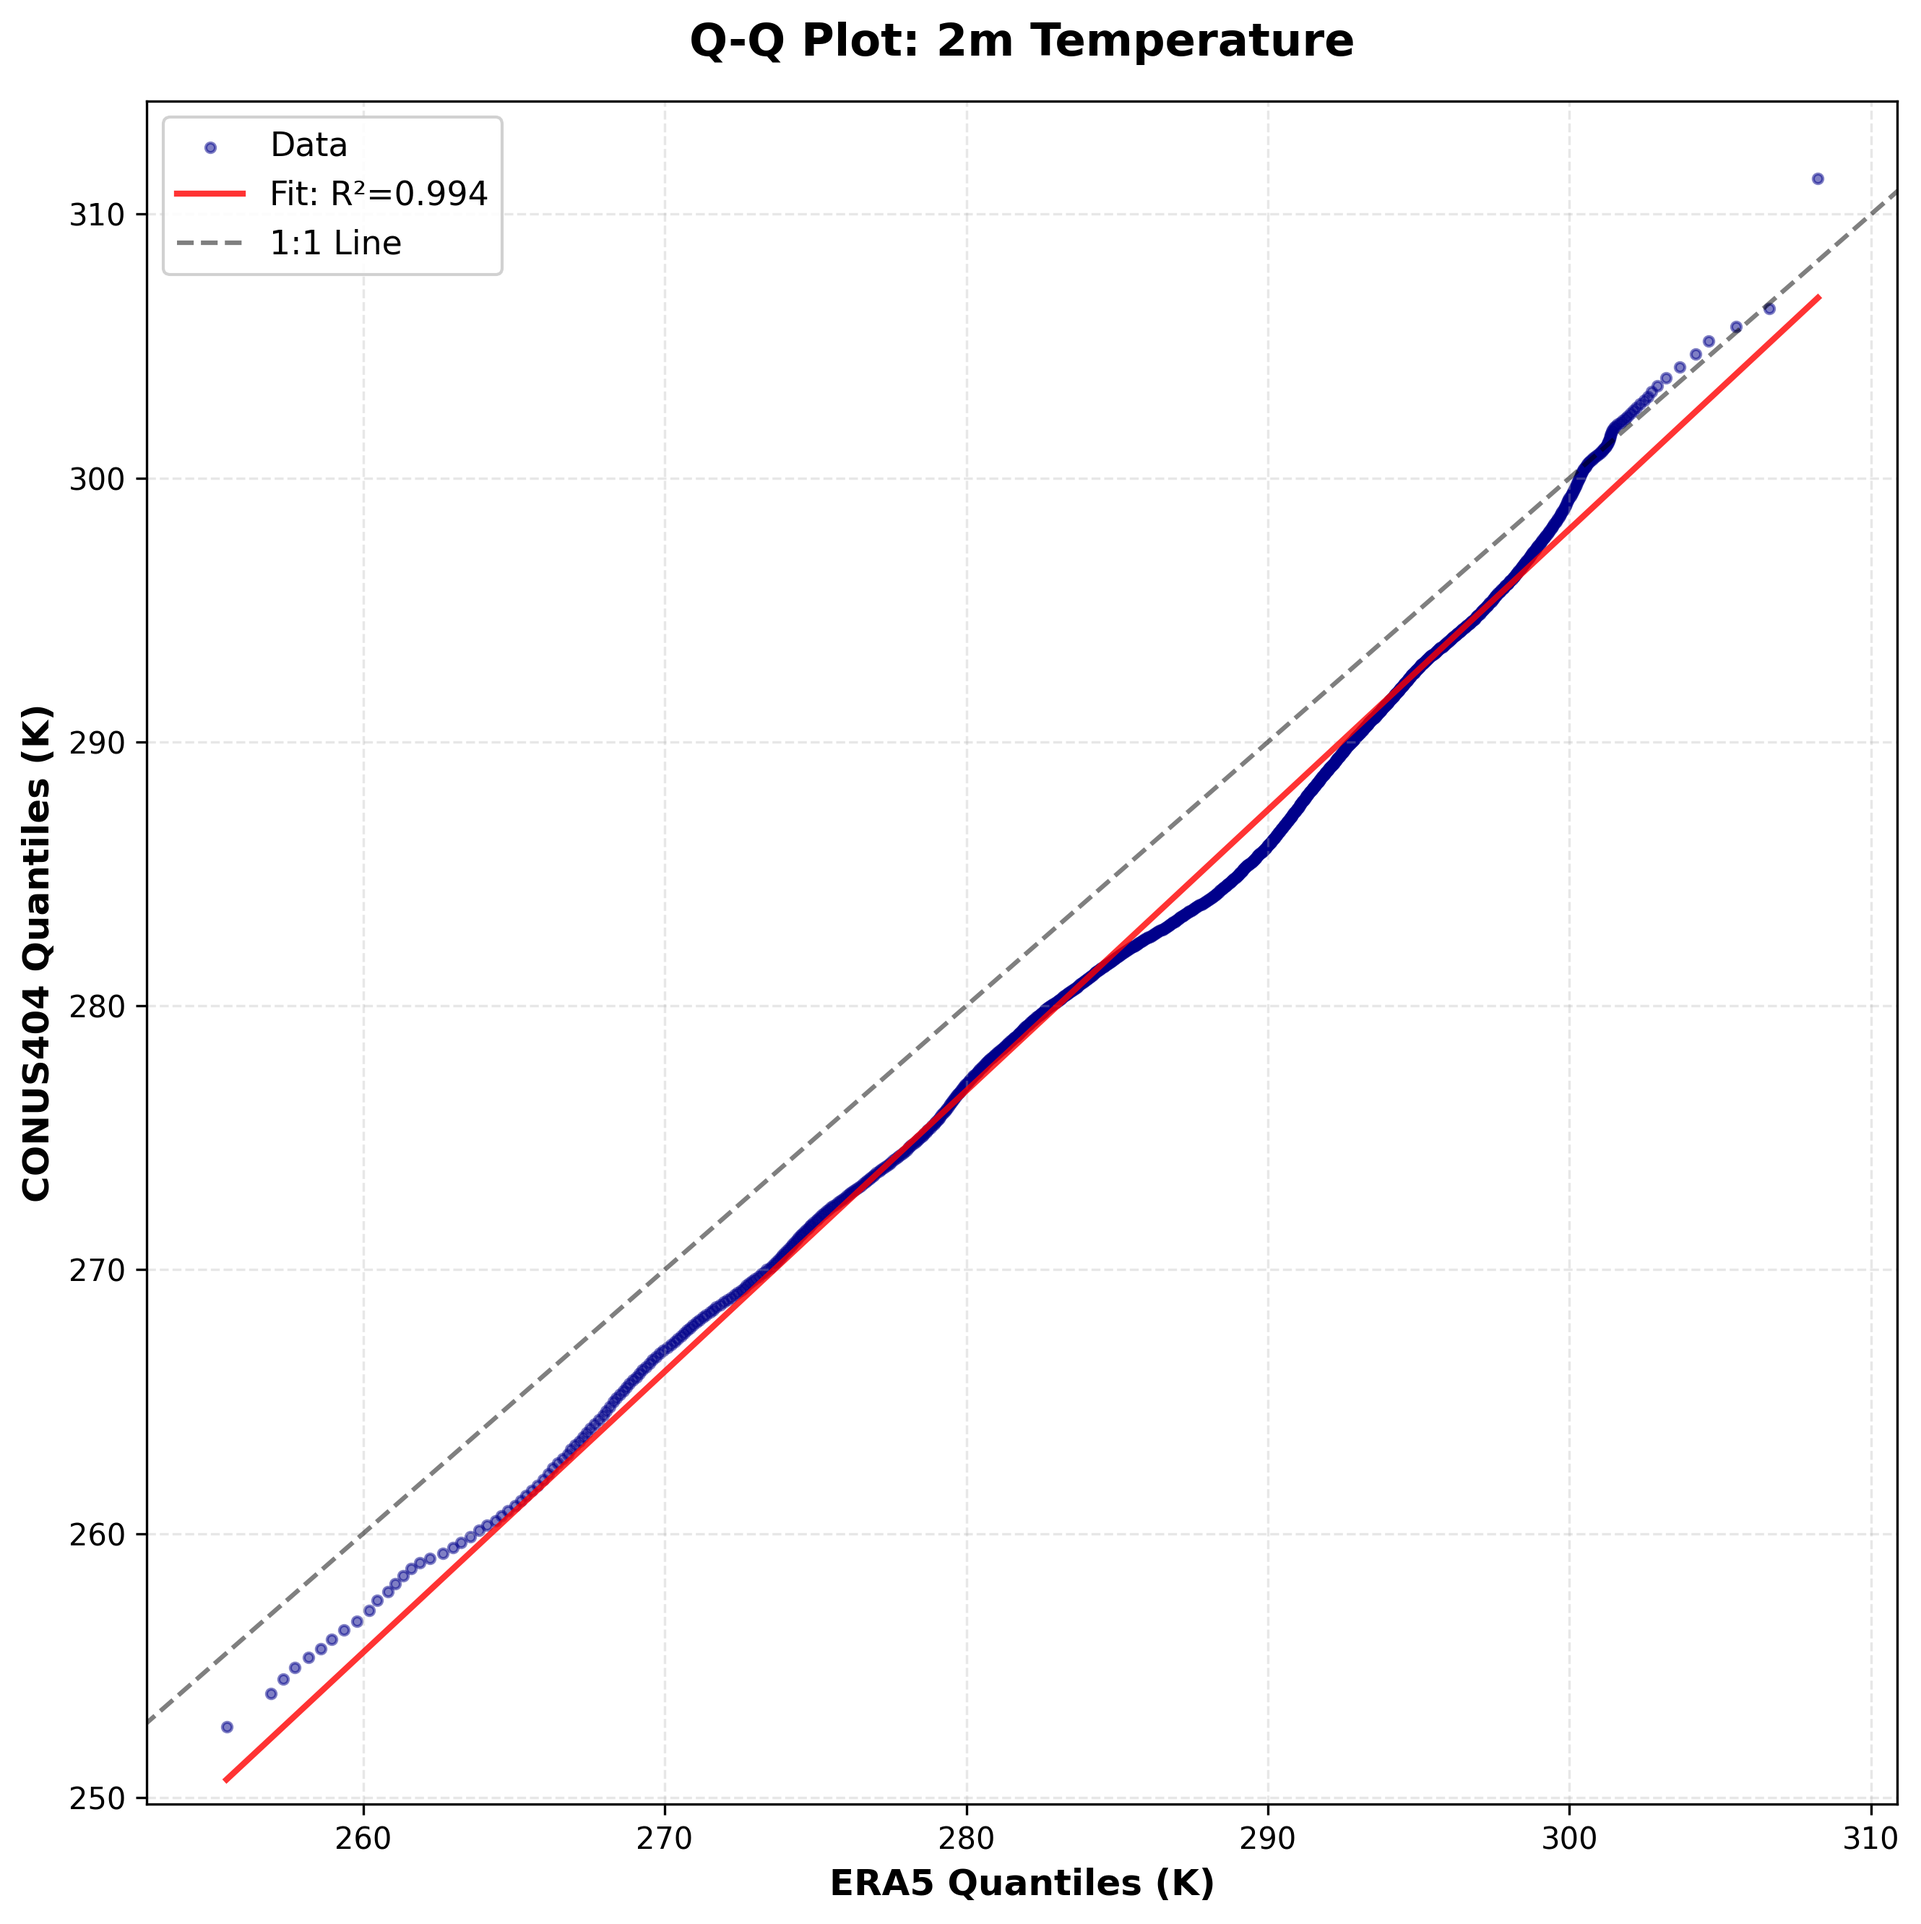
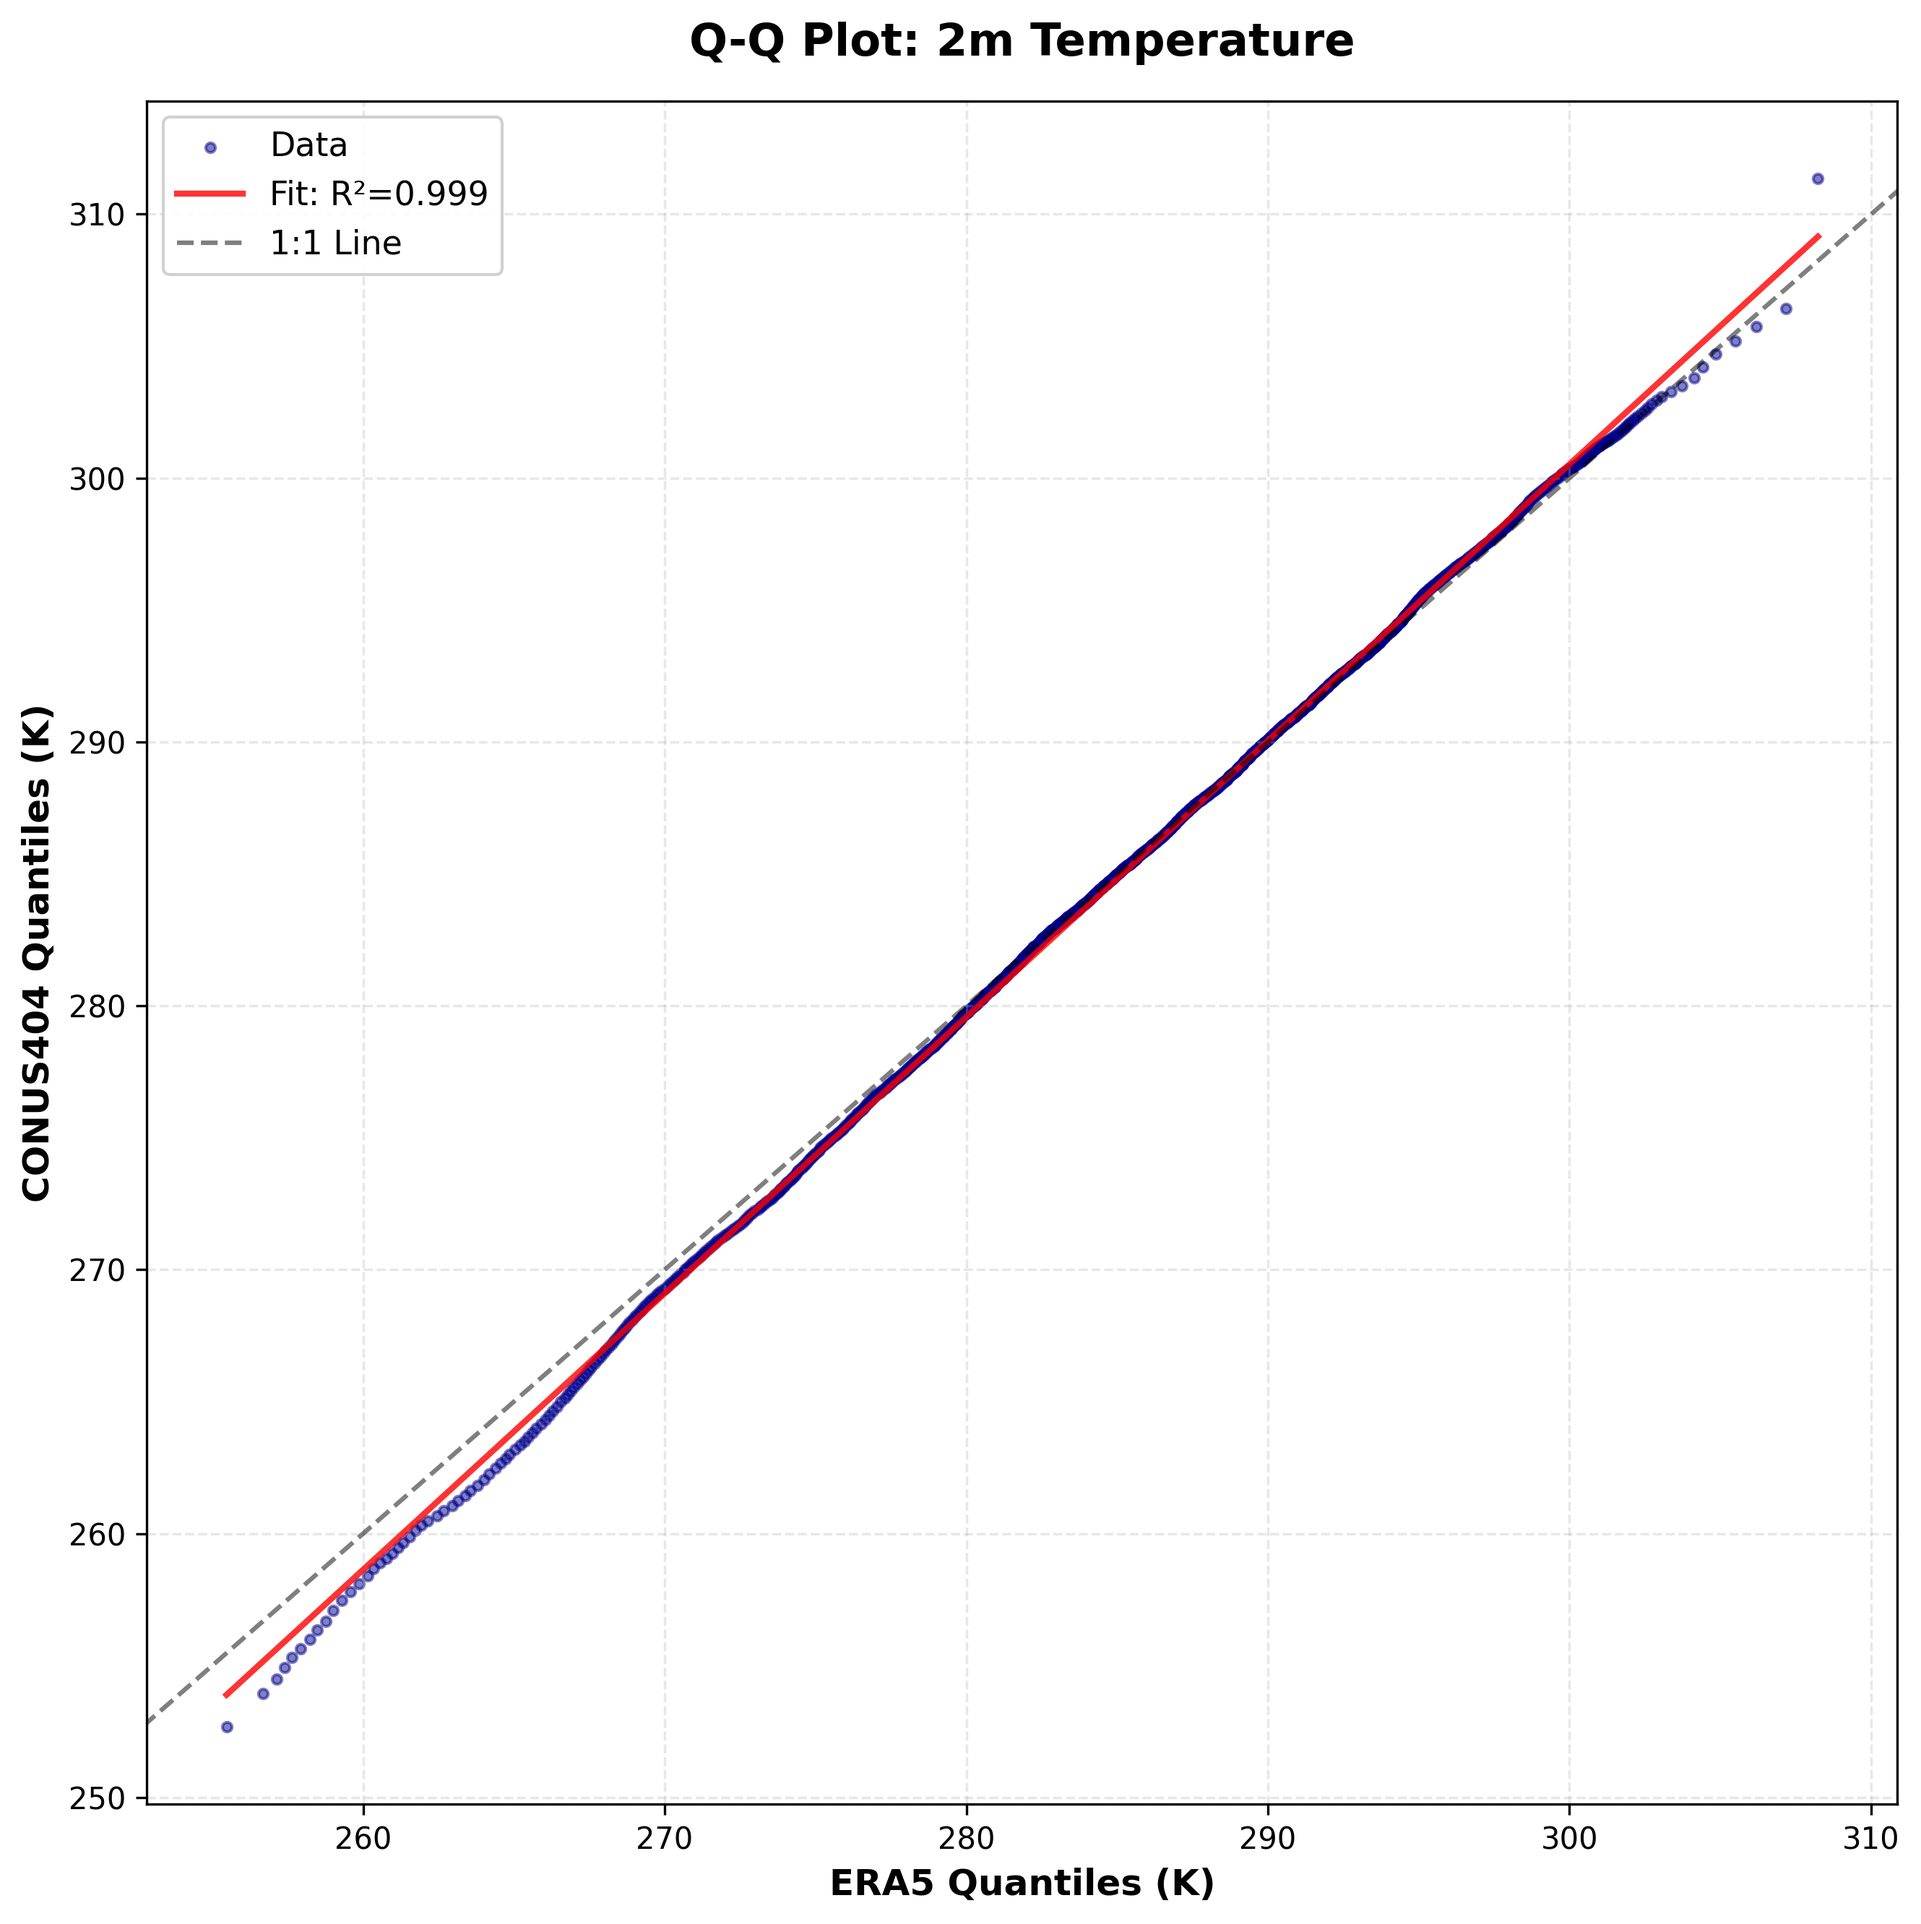
Apply ERA5 lsm mask to ERA5 seasonal data for symmetric QQ/boxplot comparison
Both ERA5 and CONUS404 distributions are now land-only (Great Lakes + ocean
excluded), making QQ plots and seasonal boxplots an apples-to-apples comparison.
Regenerated 2015 t2m plots (qq, heatmap, seasonal boxplots, yearly timeseries).

Changed region(s): [[0.1249, 0.1247, 0.9364, 0.9039]]

diff --git a/analysis_script_ocean_masked.py b/analysis_script_ocean_masked.py
@@ -238,6 +238,9 @@ def load_seasonal_data(era_ds, conus_ds, era_var, conus_var):
     era_seasonal_data = {}
     conus_seasonal_data = {}
 
+    # Get ERA5 land mask once (static field — same for all seasons)
+    era_land_bool, _, _ = get_era5_land_mask(era_ds, LAT_MAX, LAT_MIN, LON_MIN, LON_MAX)
+
     for season_name, months in SEASONS.items():
         # era5 seasonal mean
         era_season = era_ds[era_var].sel(
@@ -247,6 +250,11 @@ def load_seasonal_data(era_ds, conus_ds, era_var, conus_var):
         era_season_mean = era_season.mean(dim=era_time_dims)
         era_season_mean = trim_to_us(era_season_mean, LAT_MIN, LAT_MAX, LON_MIN, LON_MAX)
         era_season_mean = convert_units(era_season_mean, era_var)
+        if era_land_bool is not None:
+            if era_land_bool.shape == era_season_mean.shape:
+                era_season_mean = era_season_mean.where(era_land_bool)
+            else:
+                logger.warning("ERA5 lsm shape mismatch for seasonal data; skipping ERA5 lsm mask")
         era_seasonal_data[season_name] = era_season_mean
 
         # conus seasonal mean
